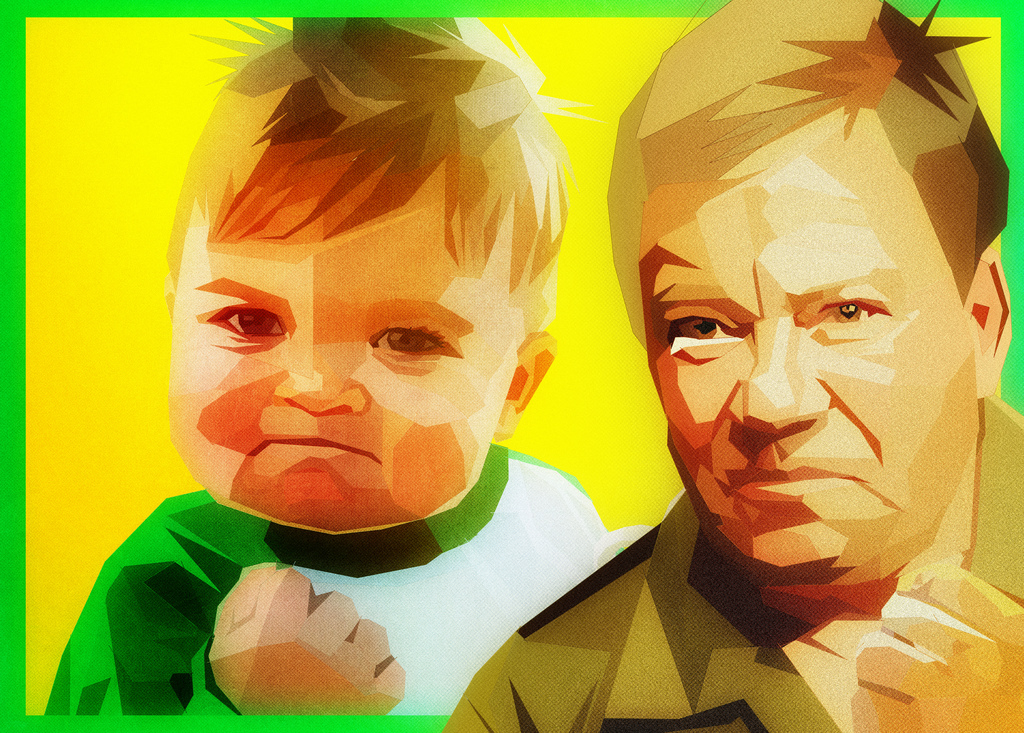
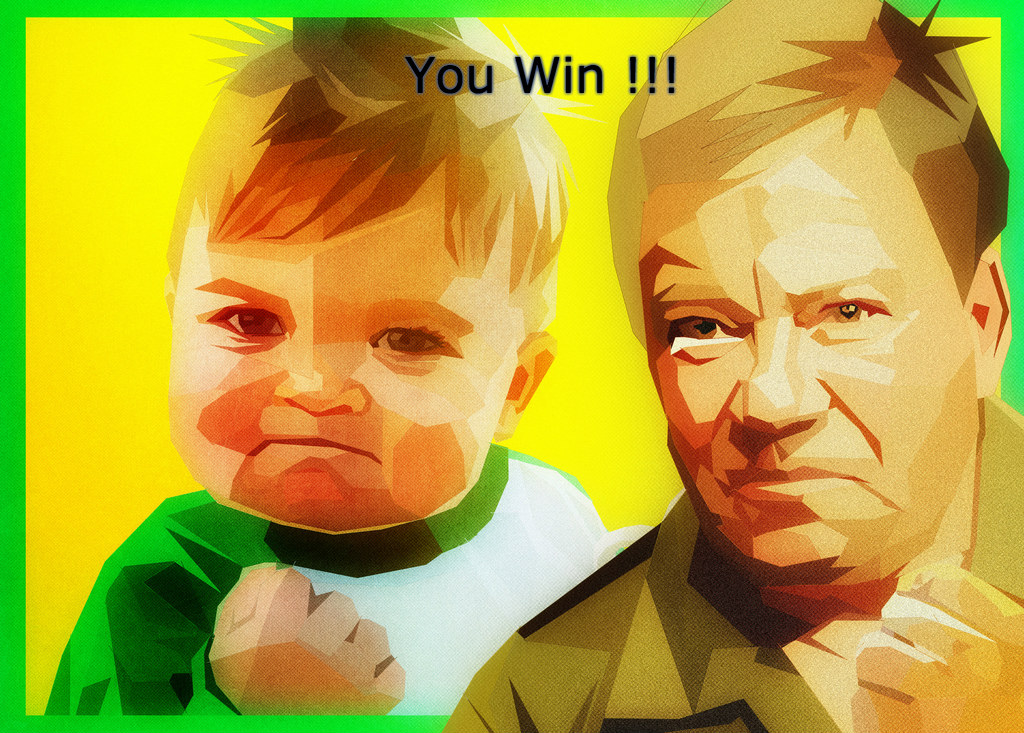
added results logic and results screen

Changed region(s): [[0.375, 0.06, 0.6875, 0.1501]]

diff --git a/project1/scripts/ninja.js b/project1/scripts/ninja.js
@@ -49,7 +49,8 @@ function init() {
     {src: "1.txt", id:"level1"},
     {src: "2.txt", id:"level2"},
     {src: "3.txt", id:"level3"},
-    {src: "win.jpg", id:"win"}
+    {src: "win.jpg", id:"win"},
+    {src: "results.png", id:"results"}
 	];
 
   loader = new createjs.LoadQueue(false);
@@ -355,25 +356,18 @@ which stops the ticker (animation engine) then calls the gameOverMan method
  is playing, it loads the game over screen.
  */
 	function gameOverMan() {
+    stage.removeAllChildren();
+    stage.removeAllEventListeners();
+    createjs.Ticker.removeAllEventListeners();
 		if (activeplayer == 1) {
-			stage.removeAllChildren();
-      stage.removeAllEventListeners();
-      createjs.Ticker.removeAllEventListeners();
 			nextPlayer();
 		} else if(activeplayer == 2){
-			//display game over screen
-		  stage = new createjs.Stage("testCanvas");
-			var goimage = new createjs.Bitmap(loader.getResult("gameover"));
-			stage.addChild(goimage);
-			resetAll();
+      results();
 		}
-
-
 	}
 
 //resets the canvas object, loads the 2nd player ready screen, sets the active player value to 2 and calls init
 	function nextPlayer(){
-//stage remove all listeners
 		stage = new createjs.Stage("testCanvas");
 		var p2image = new createjs.Bitmap(loader.getResult("player2"));
 		stage.addChild(p2image);
@@ -411,7 +405,7 @@ which stops the ticker (animation engine) then calls the gameOverMan method
     if (activeplayer == 1) {
       window.setTimeout(nextPlayer, 4000);
     } else {
-      //results screen
+      results();
     }
   }
 
@@ -424,6 +418,24 @@ which stops the ticker (animation engine) then calls the gameOverMan method
     hud.text = 'Time:\r' + parseInt(time);
   }
 
+  function results(){
+    var resultsText, textBox, goText;
+    stage = new createjs.Stage("testCanvas");
+    var resultsImage = new createjs.Bitmap(loader.getResult("results"));
+    if (p1.score > p2.score) {
+      resultsText = 'Player 1 wins!';
+    } else if (p2.score > p1.score){
+      resultsText = 'Player 2 wins!';
+    } else {
+      resultsText = 'It was a draw!';
+    }
+    goText = new textField('Game Over', 40, 120, 'left')
+    goText.color = '#bad94a';
+    textBox = new textField(resultsText, 40, 220, 'left');
+    textBox.color = '#bad94a';
+    stage.addChild(resultsImage, goText, textBox);
+    resetAll();
+  }
 /*
 This is the most important function, it is basically the entire animation engine.
 easel allows for the creation of a ticket event object, which basically calls this

diff --git a/project1/scripts/test.js b/project1/scripts/test.js
@@ -49,7 +49,8 @@ function init() {
     {src: "1.txt", id:"level1"},
     {src: "2.txt", id:"level2"},
     {src: "3.txt", id:"level3"},
-    {src: "win.jpg", id:"win"}
+    {src: "win.jpg", id:"win"},
+    {src: "results.png", id:"results"}
 	];
 
   loader = new createjs.LoadQueue(false);
@@ -355,25 +356,18 @@ which stops the ticker (animation engine) then calls the gameOverMan method
  is playing, it loads the game over screen.
  */
 	function gameOverMan() {
+    stage.removeAllChildren();
+    stage.removeAllEventListeners();
+    createjs.Ticker.removeAllEventListeners();
 		if (activeplayer == 1) {
-			stage.removeAllChildren();
-      stage.removeAllEventListeners();
-      createjs.Ticker.removeAllEventListeners();
 			nextPlayer();
 		} else if(activeplayer == 2){
-			//display game over screen
-		  stage = new createjs.Stage("testCanvas");
-			var goimage = new createjs.Bitmap(loader.getResult("gameover"));
-			stage.addChild(goimage);
-			resetAll();
+      results();
 		}
-
-
 	}
 
 //resets the canvas object, loads the 2nd player ready screen, sets the active player value to 2 and calls init
 	function nextPlayer(){
-//stage remove all listeners
 		stage = new createjs.Stage("testCanvas");
 		var p2image = new createjs.Bitmap(loader.getResult("player2"));
 		stage.addChild(p2image);
@@ -411,7 +405,7 @@ which stops the ticker (animation engine) then calls the gameOverMan method
     if (activeplayer == 1) {
       window.setTimeout(nextPlayer, 4000);
     } else {
-      //results screen
+      results();
     }
   }
 
@@ -424,6 +418,24 @@ which stops the ticker (animation engine) then calls the gameOverMan method
     hud.text = 'Time:\r' + parseInt(time);
   }
 
+  function results(){
+    var resultsText, textBox, goText;
+    stage = new createjs.Stage("testCanvas");
+    var resultsImage = new createjs.Bitmap(loader.getResult("results"));
+    if (p1.score > p2.score) {
+      resultsText = 'Player 1 wins!';
+    } else if (p2.score > p1.score){
+      resultsText = 'Player 2 wins!';
+    } else {
+      resultsText = 'It was a draw!';
+    }
+    goText = new textField('Game Over', 40, 120, 'left')
+    goText.color = '#bad94a';
+    textBox = new textField(resultsText, 40, 220, 'left');
+    textBox.color = '#bad94a';
+    stage.addChild(resultsImage, goText, textBox);
+    resetAll();
+  }
 /*
 This is the most important function, it is basically the entire animation engine.
 easel allows for the creation of a ticket event object, which basically calls this
